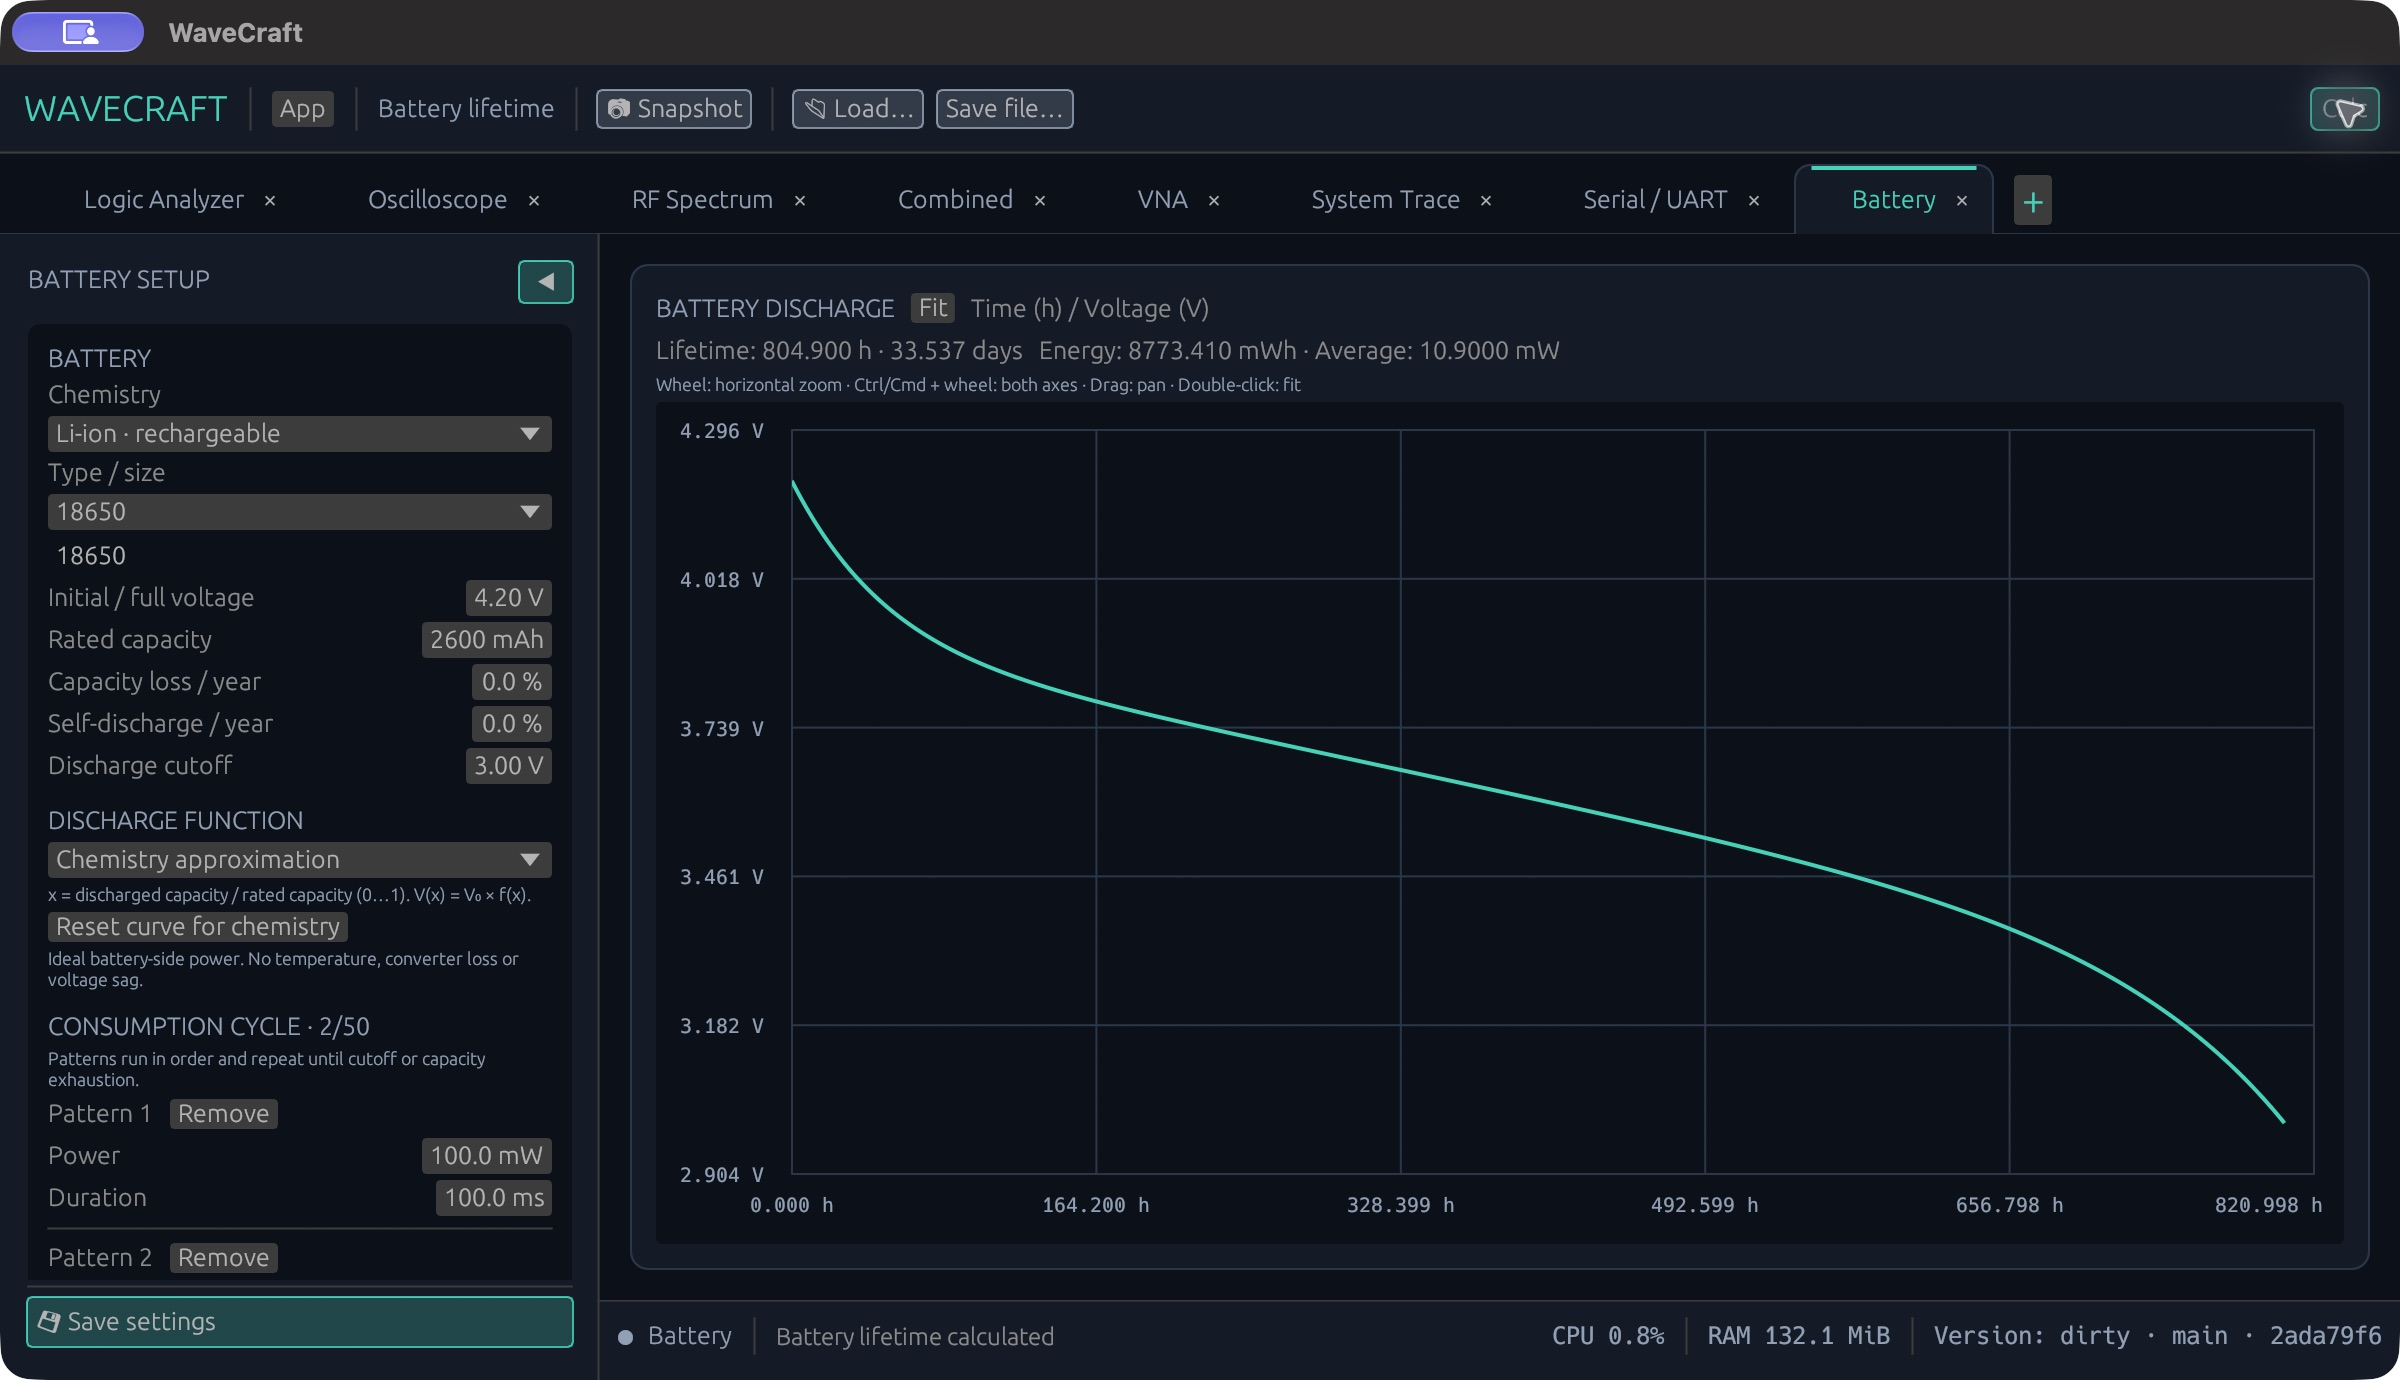
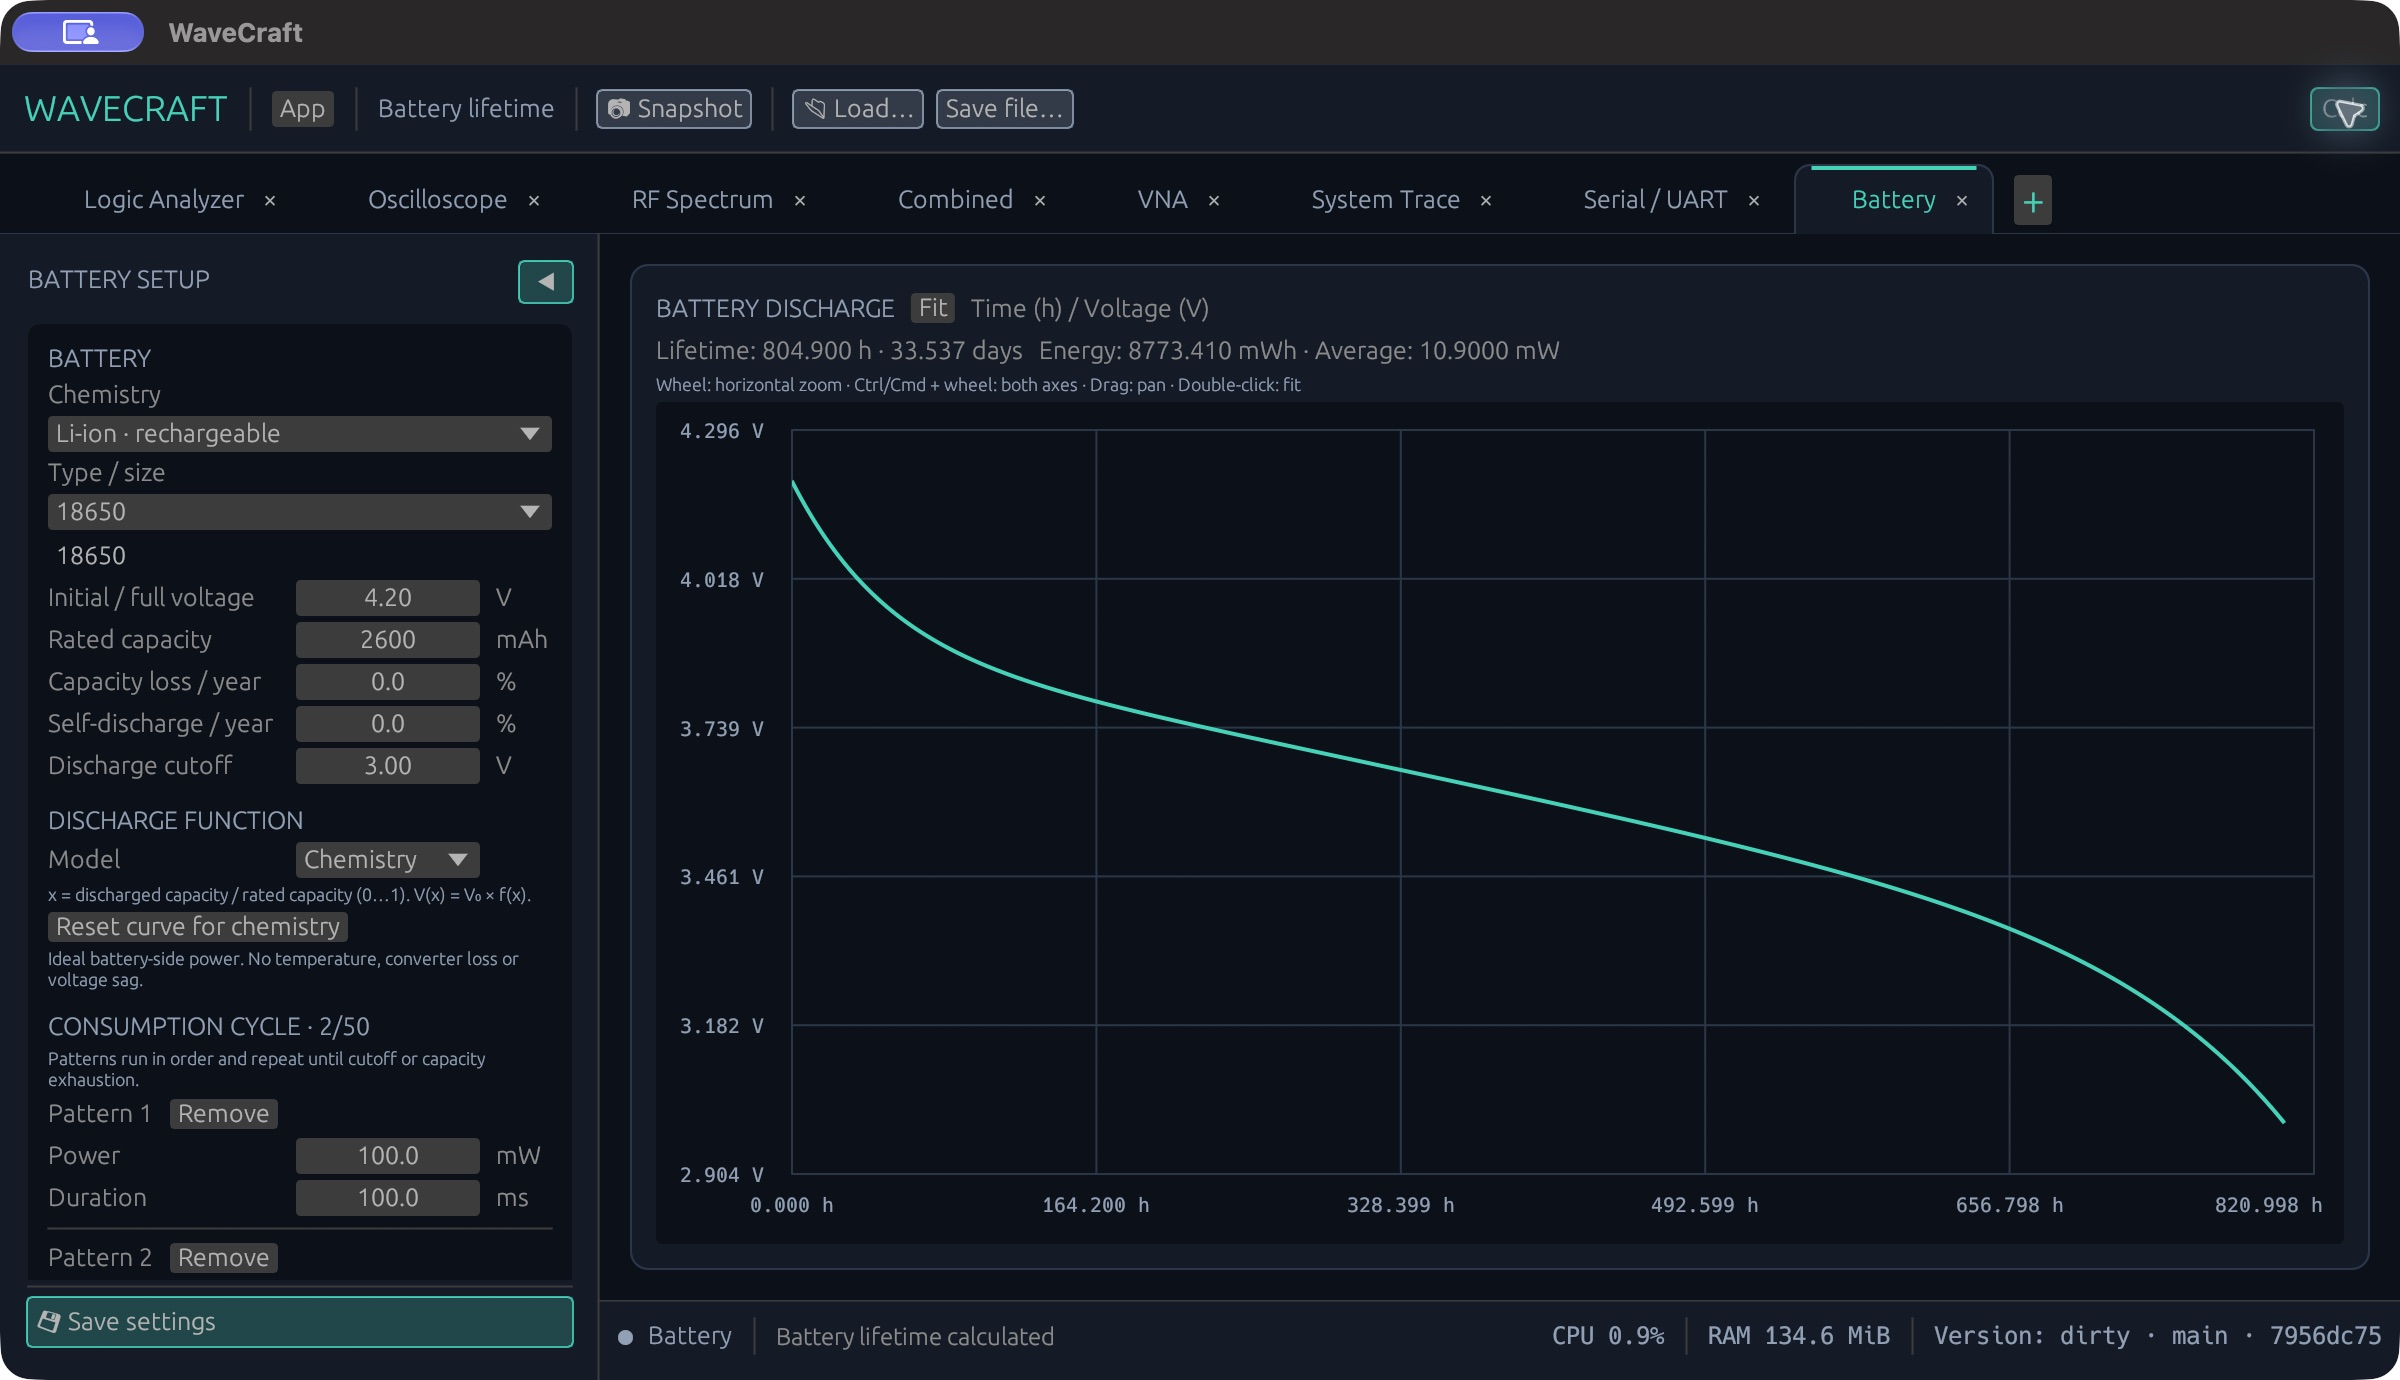
style(gui): align battery setup fields and units

Changed region(s): [[0.125, 0.4051, 0.25, 0.6543], [0.125, 0.8101, 0.25, 0.9036], [0.0, 0.592, 0.125, 0.6543]]

diff --git a/apps/wavecraft-gui/src/ui/battery.rs b/apps/wavecraft-gui/src/ui/battery.rs
@@ -11,6 +11,9 @@ use crate::{
     ACCENT, BACKGROUND, GRID, TEXT_MUTED,
 };
 
+const VALUE_FIELD_WIDTH: f32 = 92.0;
+const UNIT_COLUMN_WIDTH: f32 = 28.0;
+
 impl WaveCraftApp {
     pub(crate) fn battery_view_is_active(&self) -> bool {
         self.active_workspace_view == Some(WorkspaceView::Battery)
@@ -108,8 +111,6 @@ impl WaveCraftApp {
                 } else {
                     ui.label("Set battery parameters and a repeating load cycle, then press Calc.");
                 }
-                ui.label(RichText::new("Wheel: horizontal zoom · Ctrl/Cmd + wheel: both axes · Drag: pan · Double-click: fit")
-                    .small().color(TEXT_MUTED));
                 let rect = remaining_plot_rect(ui);
                 self.snapshot_plot_rect = Some(rect);
                 paint_graph(ui, rect, &mut self.battery);
@@ -244,19 +245,26 @@ fn battery_editor(ui: &mut egui::Ui, settings: &mut BatterySettings) {
             .strong()
             .color(TEXT_MUTED),
     );
-    let curve_response = egui::ComboBox::from_id_salt("battery_curve")
-        .width(ui.available_width())
-        .selected_text(settings.curve.label())
-        .show_ui(ui, |ui| {
-            for kind in [
-                CurveKind::Chemistry,
-                CurveKind::Polynomial,
-                CurveKind::Table,
-            ] {
-                ui.selectable_value(&mut settings.curve, kind, kind.label());
-            }
-        })
-        .response;
+    let curve_response = value_row(ui, "Model", "", |ui| {
+        egui::ComboBox::from_id_salt("battery_curve")
+            .width(VALUE_FIELD_WIDTH)
+            .wrap_mode(egui::TextWrapMode::Truncate)
+            .selected_text(match settings.curve {
+                CurveKind::Chemistry => "Chemistry",
+                CurveKind::Polynomial => "Polynomial",
+                CurveKind::Table => "Table",
+            })
+            .show_ui(ui, |ui| {
+                for kind in [
+                    CurveKind::Chemistry,
+                    CurveKind::Polynomial,
+                    CurveKind::Table,
+                ] {
+                    ui.selectable_value(&mut settings.curve, kind, kind.label());
+                }
+            })
+            .response
+    });
     if settings.curve == CurveKind::Chemistry {
         curve_response.on_hover_selectable_text("Generic exponential drop + slope + end knee. Illustrative chemistry profile; size is a label, not a measured cell model.");
     }
@@ -268,9 +276,11 @@ fn battery_editor(ui: &mut egui::Ui, settings: &mut BatterySettings) {
     match settings.curve {
         CurveKind::Chemistry => {}
         CurveKind::Polynomial => {
-            ui.horizontal(|ui| {
-                ui.label("Degree");
-                ui.add(egui::DragValue::new(&mut settings.polynomial_degree).range(1..=5));
+            value_row(ui, "Degree", "", |ui| {
+                ui.add_sized(
+                    [VALUE_FIELD_WIDTH, ui.spacing().interact_size.y],
+                    egui::DragValue::new(&mut settings.polynomial_degree).range(1..=5),
+                )
             });
             ui.label(RichText::new("f(x) = c₀ + c₁x + … + cₙxⁿ. Start with degree 5; verify monotonicity against measured data.")
                 .small().color(TEXT_MUTED));
@@ -291,16 +301,21 @@ fn battery_editor(ui: &mut egui::Ui, settings: &mut BatterySettings) {
             for (i, point) in settings.table.iter_mut().enumerate() {
                 ui.push_id(i, |ui| {
                     ui.horizontal(|ui| {
-                        ui.add(
+                        ui.spacing_mut().item_spacing.x = 4.0;
+                        let field_size =
+                            egui::vec2(VALUE_FIELD_WIDTH, ui.spacing().interact_size.y);
+                        ui.label("x");
+                        ui.add_sized(
+                            field_size,
                             egui::DragValue::new(&mut point[0])
                                 .speed(0.001)
-                                .prefix("x ")
                                 .max_decimals(5),
                         );
-                        ui.add(
+                        ui.label("V/V₀");
+                        ui.add_sized(
+                            field_size,
                             egui::DragValue::new(&mut point[1])
                                 .speed(0.001)
-                                .prefix("V/V₀ ")
                                 .max_decimals(5),
                         );
                         if ui.small_button("×").clicked() {
@@ -383,26 +398,58 @@ fn battery_editor(ui: &mut egui::Ui, settings: &mut BatterySettings) {
     }
 }
 
+/// Keep settings controls and their external unit labels in aligned columns.
+fn value_row(
+    ui: &mut egui::Ui,
+    label: &str,
+    unit: &str,
+    editor: impl FnOnce(&mut egui::Ui) -> egui::Response,
+) -> egui::Response {
+    ui.horizontal(|ui| {
+        let label = ui.label(label);
+        let controls = ui.with_layout(egui::Layout::right_to_left(egui::Align::Center), |ui| {
+            let height = ui.spacing().interact_size.y;
+            let unit = ui
+                .allocate_ui_with_layout(
+                    egui::vec2(UNIT_COLUMN_WIDTH, height),
+                    egui::Layout::left_to_right(egui::Align::Center),
+                    |ui| {
+                        ui.set_width(UNIT_COLUMN_WIDTH);
+                        ui.label(unit.trim())
+                    },
+                )
+                .inner;
+            let editor = ui
+                .allocate_ui_with_layout(
+                    egui::vec2(VALUE_FIELD_WIDTH, height),
+                    egui::Layout::left_to_right(egui::Align::Center),
+                    |ui| {
+                        ui.set_width(VALUE_FIELD_WIDTH);
+                        ui.spacing_mut().interact_size.x = VALUE_FIELD_WIDTH;
+                        editor(ui)
+                    },
+                )
+                .inner;
+            editor.union(unit)
+        });
+        label.union(controls.inner)
+    })
+    .inner
+}
+
 fn number(
     ui: &mut egui::Ui,
     label: &str,
     value: &mut f64,
-    suffix: &str,
+    unit: &str,
     speed: f64,
 ) -> egui::Response {
-    ui.horizontal(|ui| {
-        let label = ui.label(label);
-        let editor = ui.with_layout(egui::Layout::right_to_left(egui::Align::Center), |ui| {
-            ui.add(
-                egui::DragValue::new(value)
-                    .speed(speed)
-                    .max_decimals(6)
-                    .suffix(suffix),
-            )
-        });
-        label.union(editor.inner)
+    value_row(ui, label, unit, |ui| {
+        ui.add_sized(
+            [VALUE_FIELD_WIDTH, ui.spacing().interact_size.y],
+            egui::DragValue::new(value).speed(speed).max_decimals(6),
+        )
     })
-    .inner
 }
 
 fn fitted_bounds(result: &crate::battery::BatteryResult) -> [f64; 4] {
